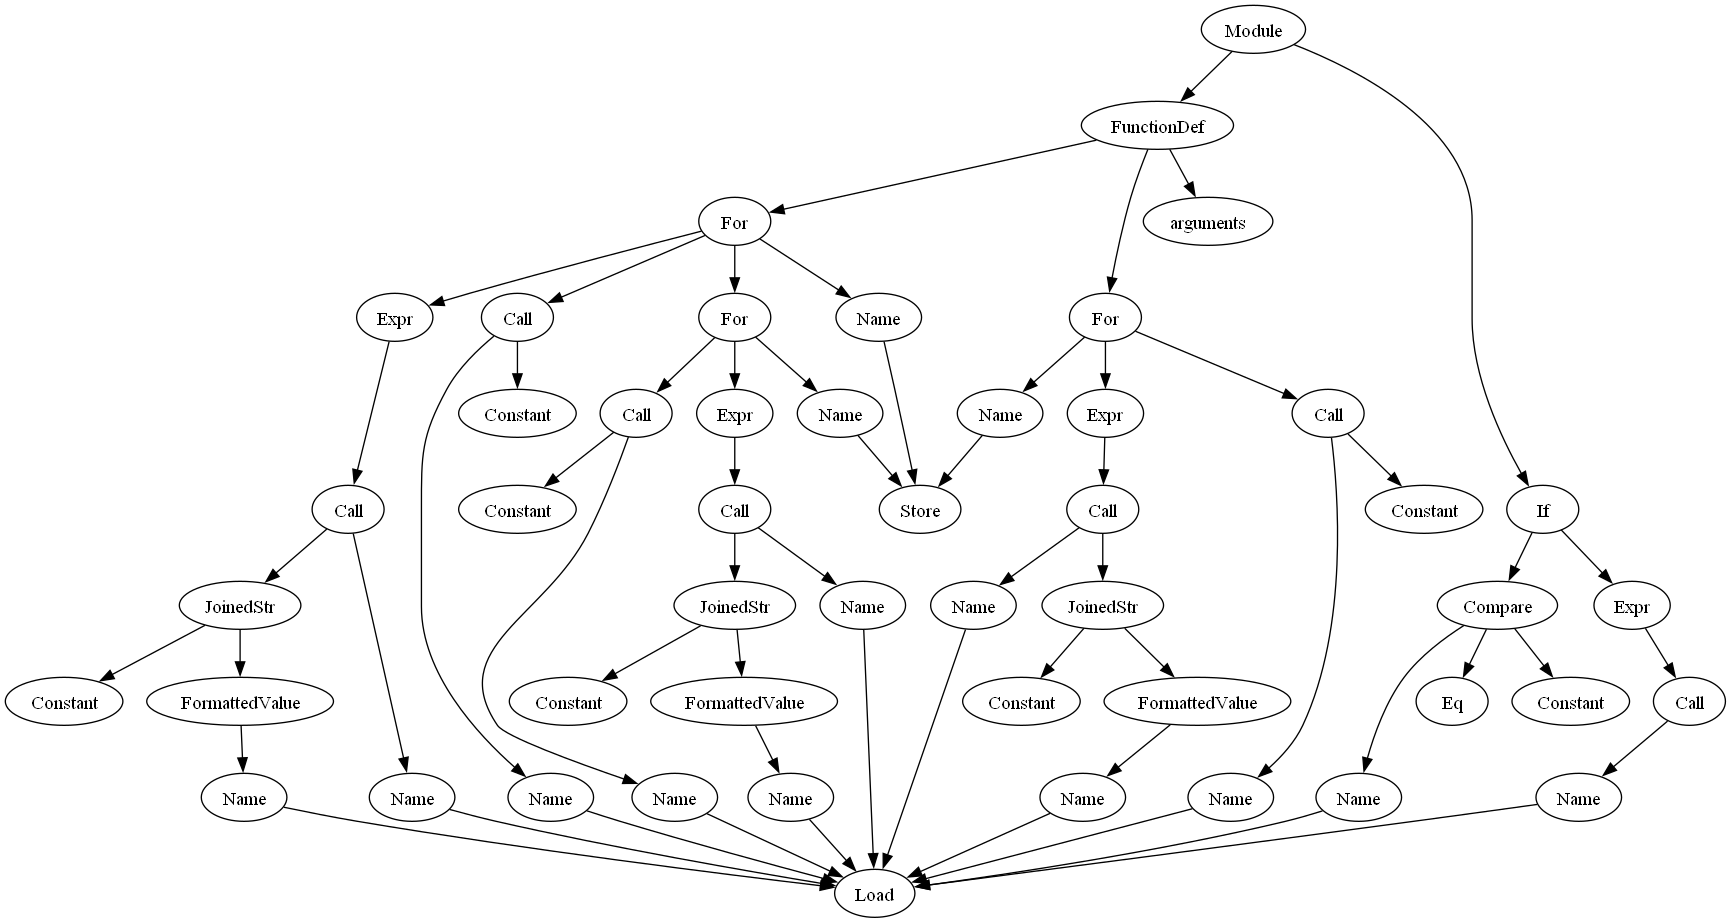
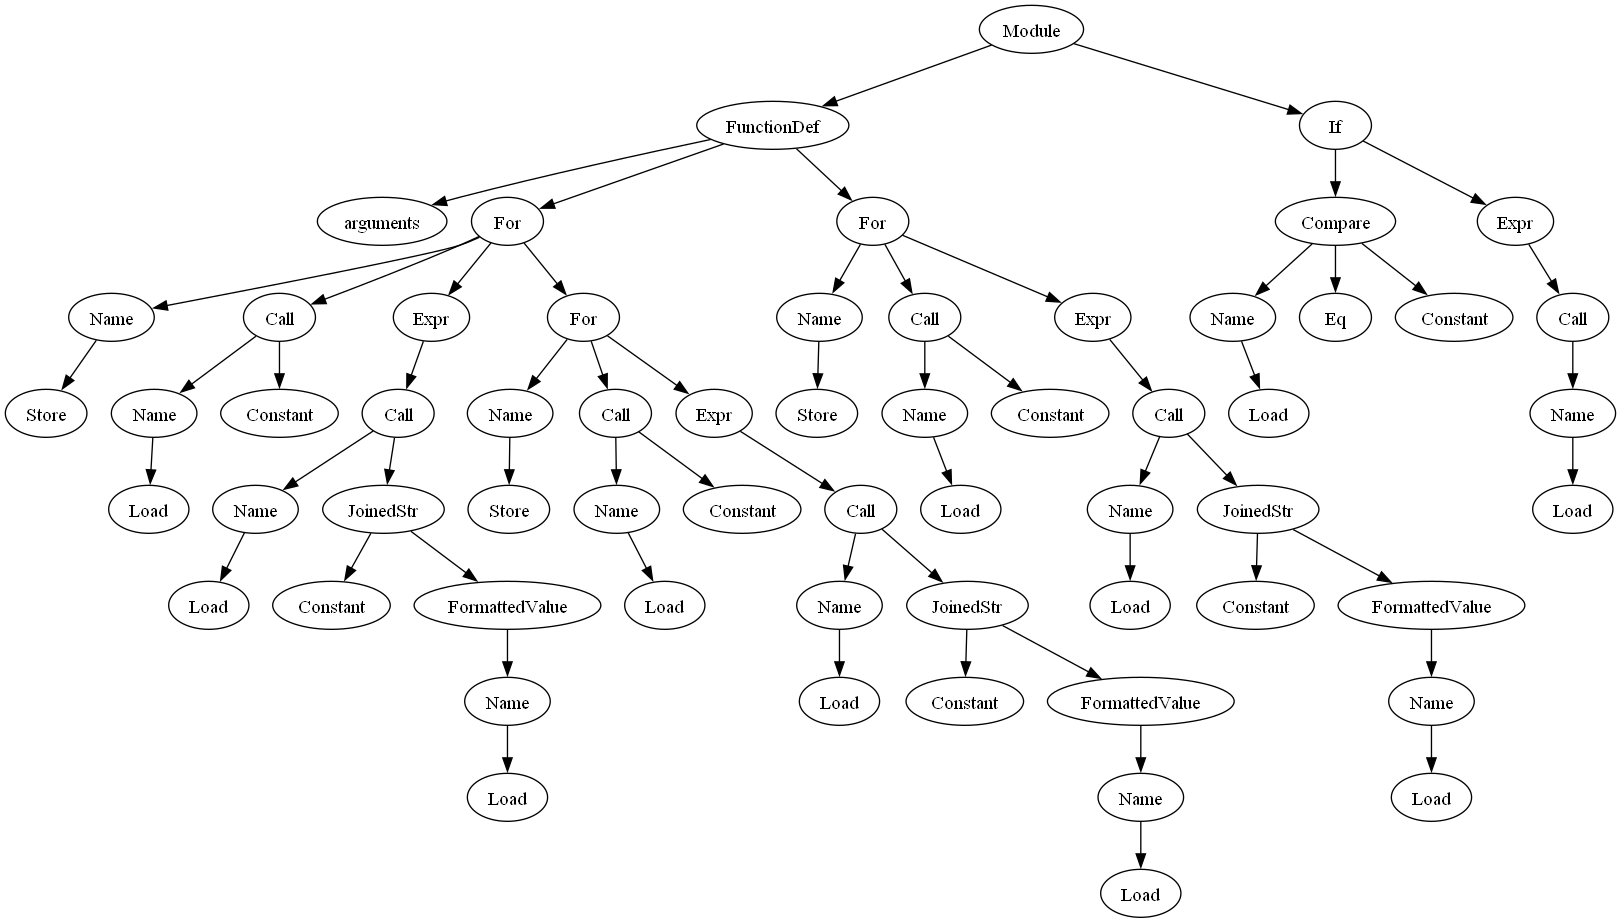
add file for graph representation

diff --git a/src/ast_to_dot.py b/src/ast_to_dot.py
@@ -1,39 +1,74 @@
 import ast
-import sys
+import os
+from collections import defaultdict
 
 
-def ast_to_dot(node, parent_id=-1):
-    if isinstance(node, ast.AST):
-        node_id = hash(node)
-        print(f'{node_id} [label="{type(node).__name__}"]')
+class ASTVisualizer:
+    def __init__(self):
+        self.graph = defaultdict(list)
+        self.labels = {}
 
-        if parent_id != -1:
-            print(f'{parent_id} -> {node_id}')
+    def ast_visitor(self, tree):
+        stack = [(None, tree)]
+        parent_id = None
 
-        for field, value in ast.iter_fields(node):
-            if isinstance(value, list):
-                for item in value:
-                    if isinstance(item, ast.AST):
-                        ast_to_dot(item, node_id)
+        while stack:
+            parent_id, current_node = stack.pop()
 
-            elif isinstance(value, ast.AST):
-                ast_to_dot(value, node_id)
+            if isinstance(current_node, ast.AST):
+                node_id = len(self.graph)
+                self.graph[node_id] = []
+                self.labels[node_id] = type(current_node).__name__
 
+                if parent_id is not None:
+                    self.graph[parent_id].append(node_id)
 
-def generate_dot_code(source_code):
-    tree = ast.parse(source_code)
-    print("digraph AST {")
-    ast_to_dot(tree)
-    print("}")
+                for field in reversed(current_node._fields):
+                    stack.append((node_id, getattr(current_node, field)))
+
+            elif isinstance(current_node, list):
+                for element in reversed(current_node):
+                    stack.append((parent_id, element))
+
+        return parent_id
+
+    def generate_dot_code(self):
+        print("digraph AST {")
+        self.print_nodes_dot(0)
+        print("}")
+
+    def print_nodes_dot(self, node_id, visited=None):
+        if visited is None:
+            visited = set()
+
+        if node_id in visited:
+            return
+
+        visited.add(node_id)
+        print(f'"{node_id}" [label="{self.labels[node_id]}"]')
+
+        for child_id in self.graph[node_id]:
+            print(f'"{node_id}" -> "{child_id}"')
+            self.print_nodes_dot(child_id, visited)
+
+    def load_from_file(self, file_path):
+        if not os.path.exists(file_path):
+            print(f"File not found: {file_path}")
+
+            return
+
+        with open(file_path, 'r') as f:
+            source_code = f.read()
+
+        tree = ast.parse(source_code)
+        self.ast_visitor(tree)
 
 
 if __name__ == "__main__":
-    if len(sys.argv) != 2:
-        print("Usage: python ast_to_dot.py <source_file.py>")
-        sys.exit(1)
+    visualizer = ASTVisualizer()
 
-    source_file = sys.argv[1]
-    with open(source_file, 'r') as f:
-        source_code = f.read()
+    script_dir = os.path.dirname(os.path.abspath(__file__))
+    test_file_path = os.path.join(script_dir, "..", "tests", "test_file.py")
 
-    generate_dot_code(source_code)
+    visualizer.load_from_file(test_file_path)
+    visualizer.generate_dot_code()
